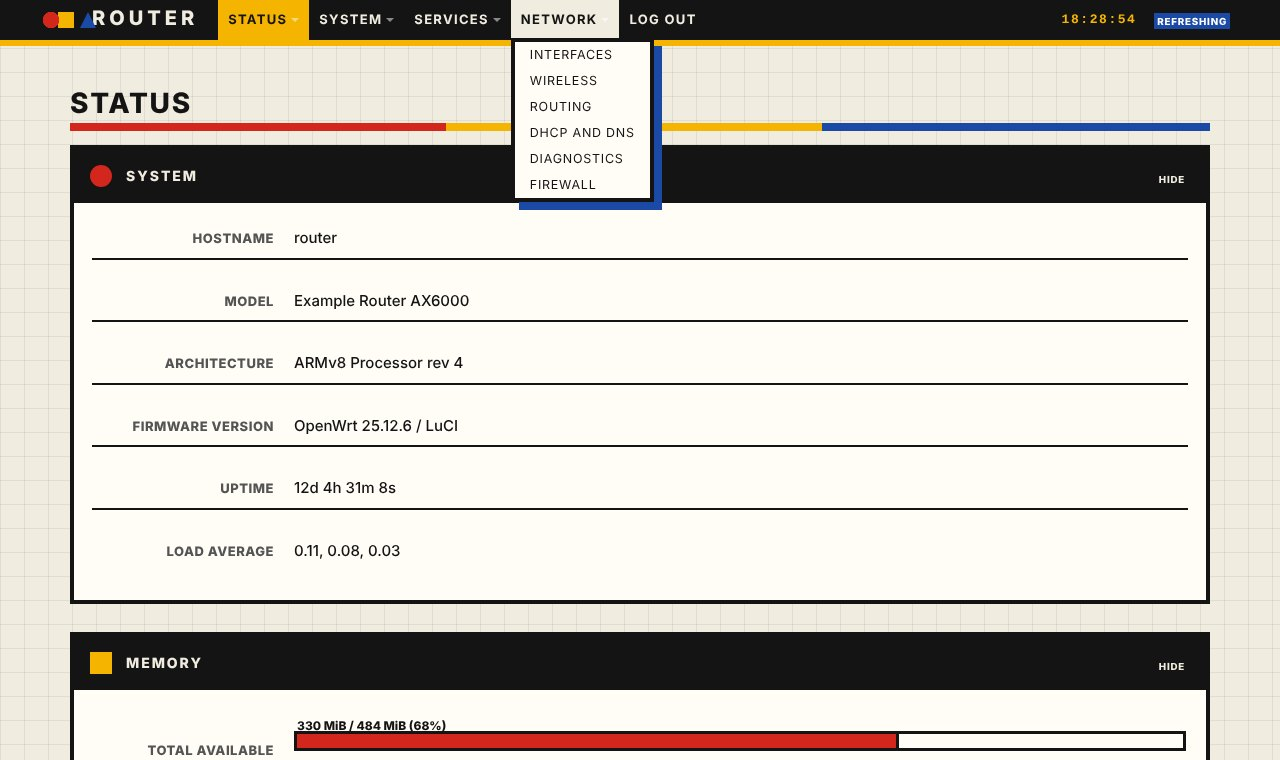
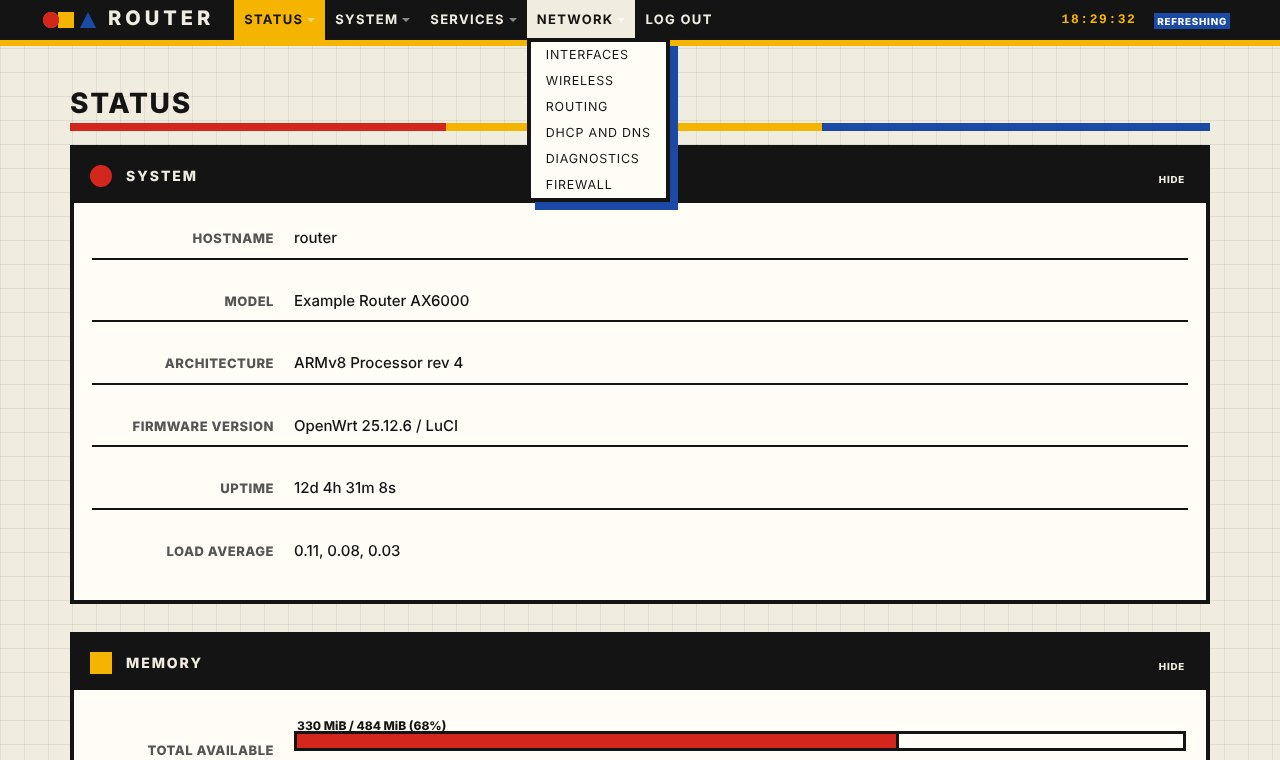
Bauhaus: more room between the brand mark and the hostname
Claude-Session: https://claude.ai/code/session_011SV9Xv1Mtg1pK9Bo3Yny9q

Changed region(s): [[0.0625, 0.0, 0.5625, 0.2724]]

diff --git a/themes/luci-theme-bauhaus/htdocs/luci-static/bauhaus/cascade.css b/themes/luci-theme-bauhaus/htdocs/luci-static/bauhaus/cascade.css
@@ -3103,7 +3103,7 @@ a:hover { color: var(--rd); }
 /* header: a black bar with the three basic shapes as the brand mark */
 header { background: var(--bk); border-bottom: 6px solid var(--yl); box-shadow: none; }
 header a { color: var(--pp); font-weight: 700; text-decoration: none; }
-header .brand { color: var(--pp); text-transform: uppercase; letter-spacing: .2em; font-weight: 800; padding-left: 62px; position: relative; }
+header .brand { color: var(--pp); text-transform: uppercase; letter-spacing: .2em; font-weight: 800; padding-left: 78px; position: relative; }
 header .brand::before {
 	content: ""; position: absolute; left: 12px; top: 50%; width: 42px; height: 18px; transform: translateY(-50%);
 	background:
@@ -3181,7 +3181,7 @@ footer a { color: var(--yl); }
 @media (max-width: 600px) {
 	#maincontent { padding: 14px 10px 8px; }
 	h2 { font-size: 22px; }
-	header .brand { padding-left: 58px; }
+	header .brand { padding-left: 74px; }
 }
 
 /* --- Accessibility and small-screen baseline (keep these when restyling) ---- */
